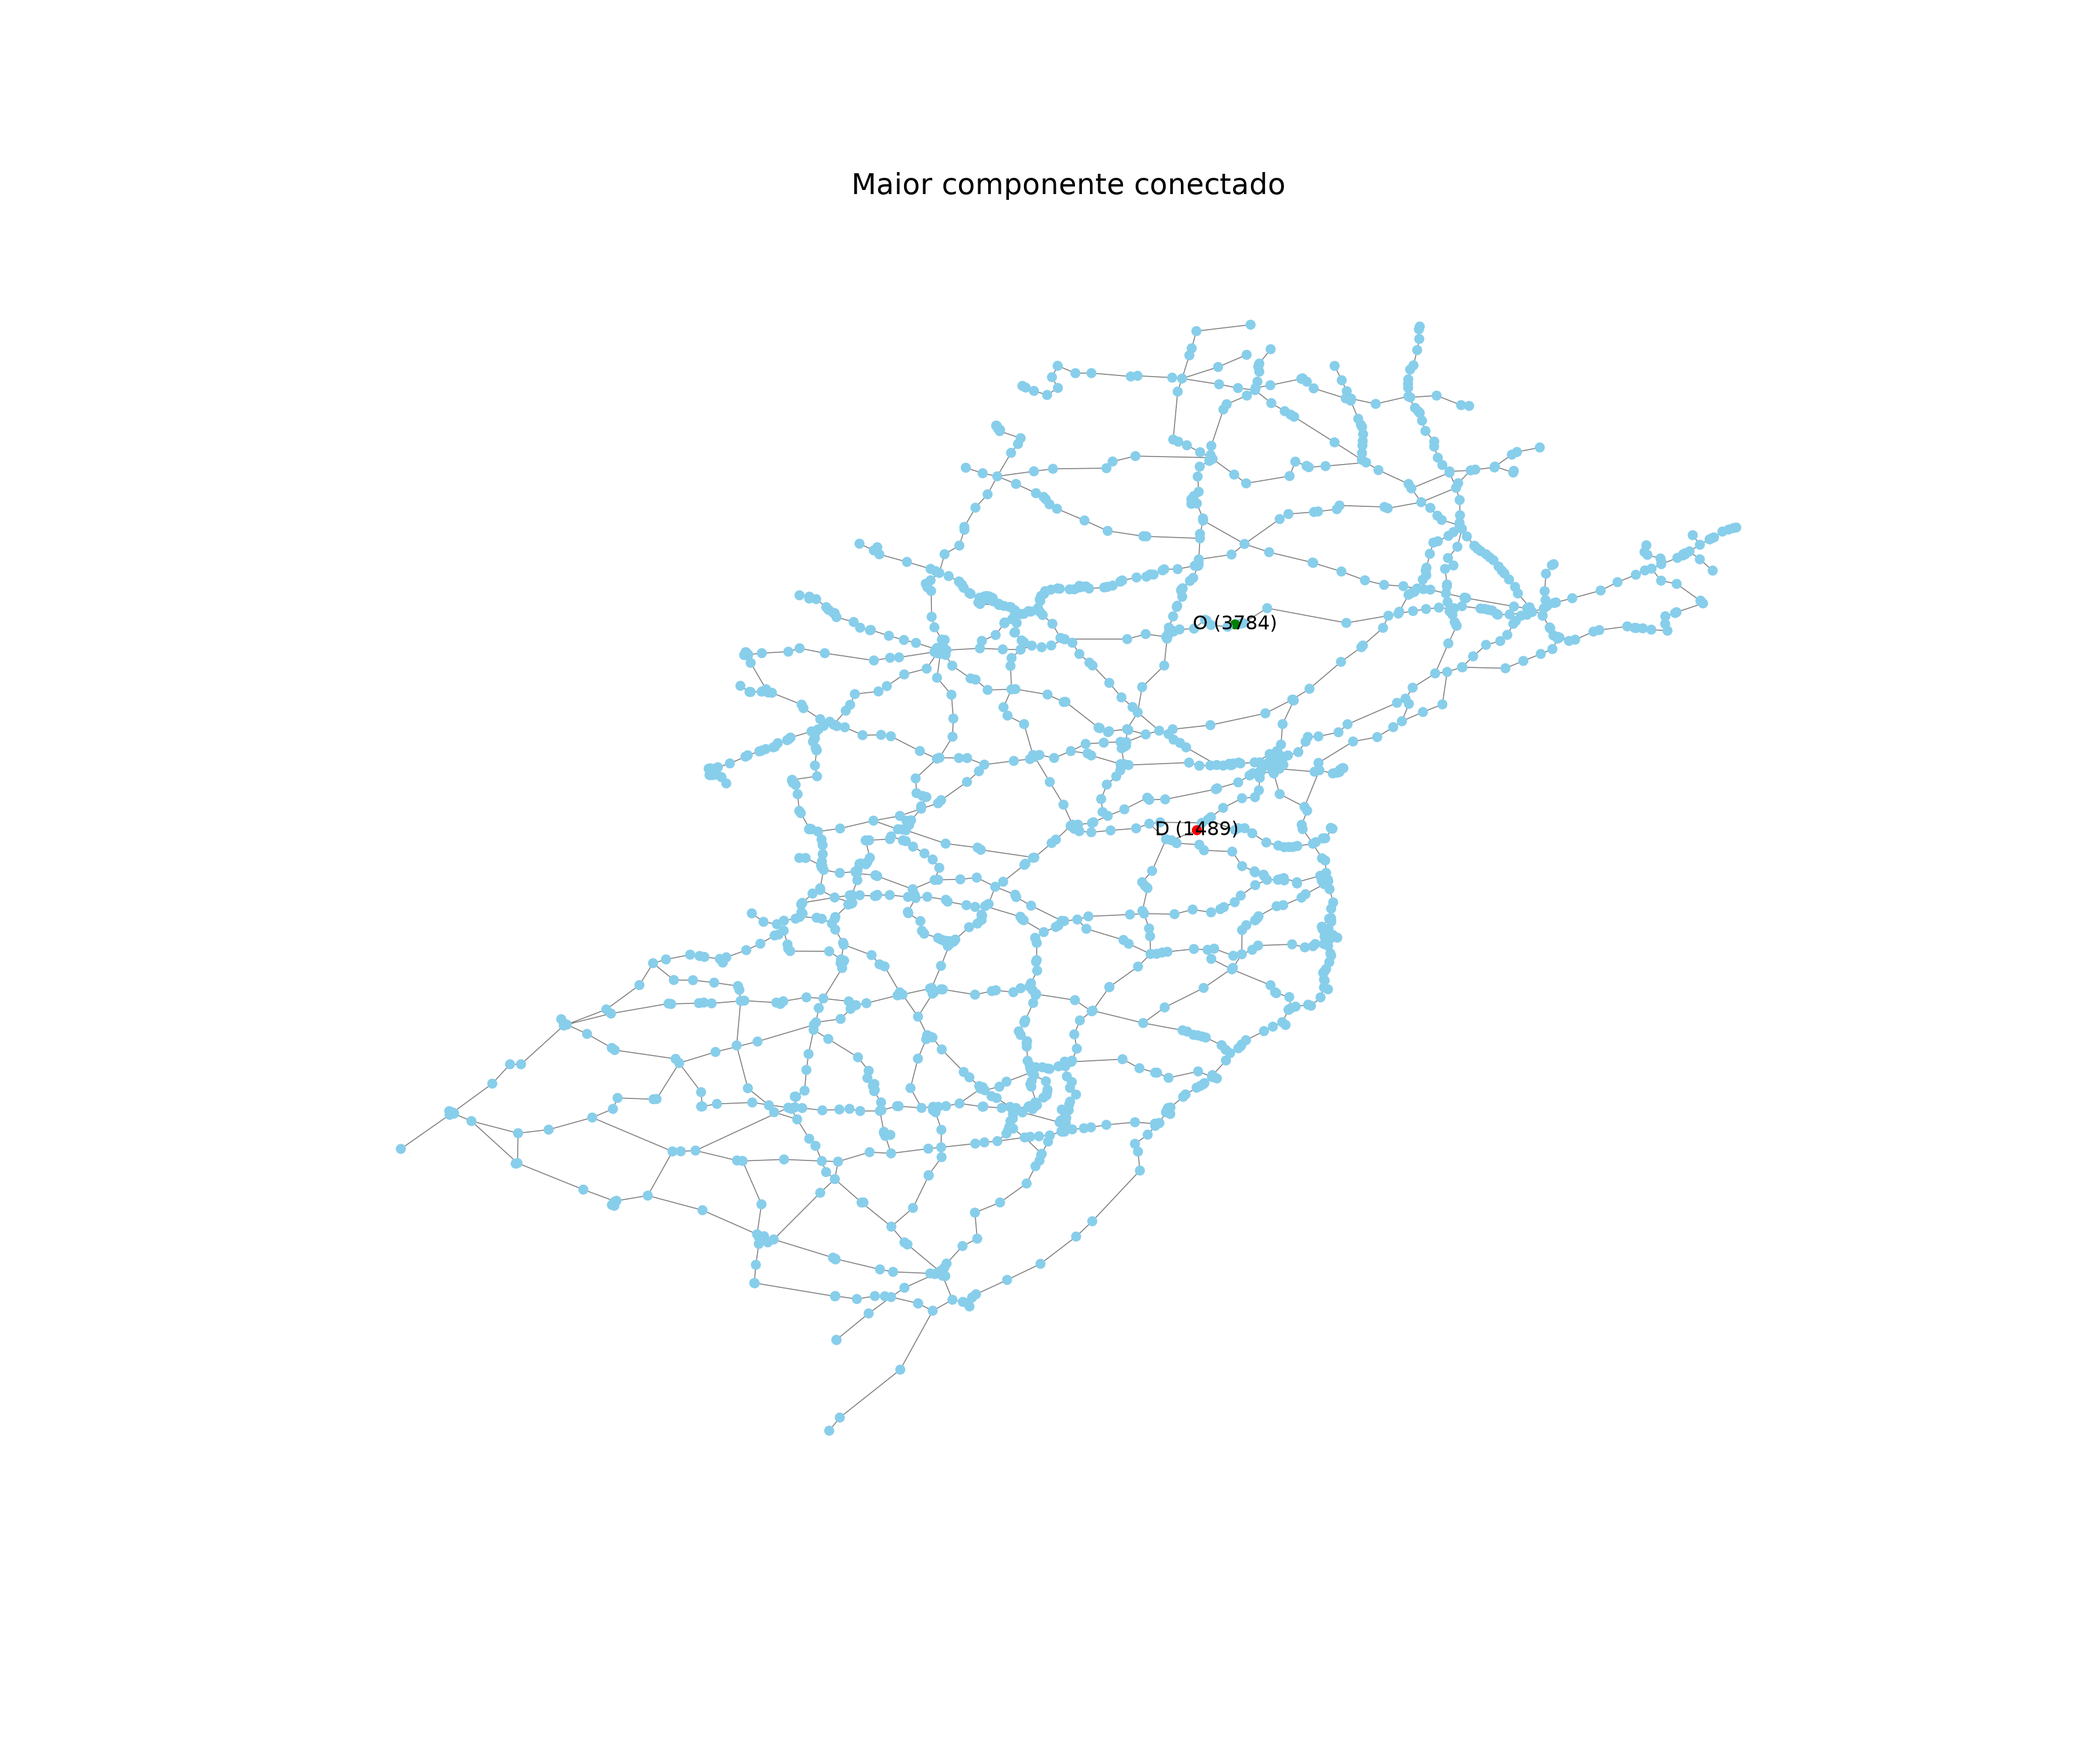
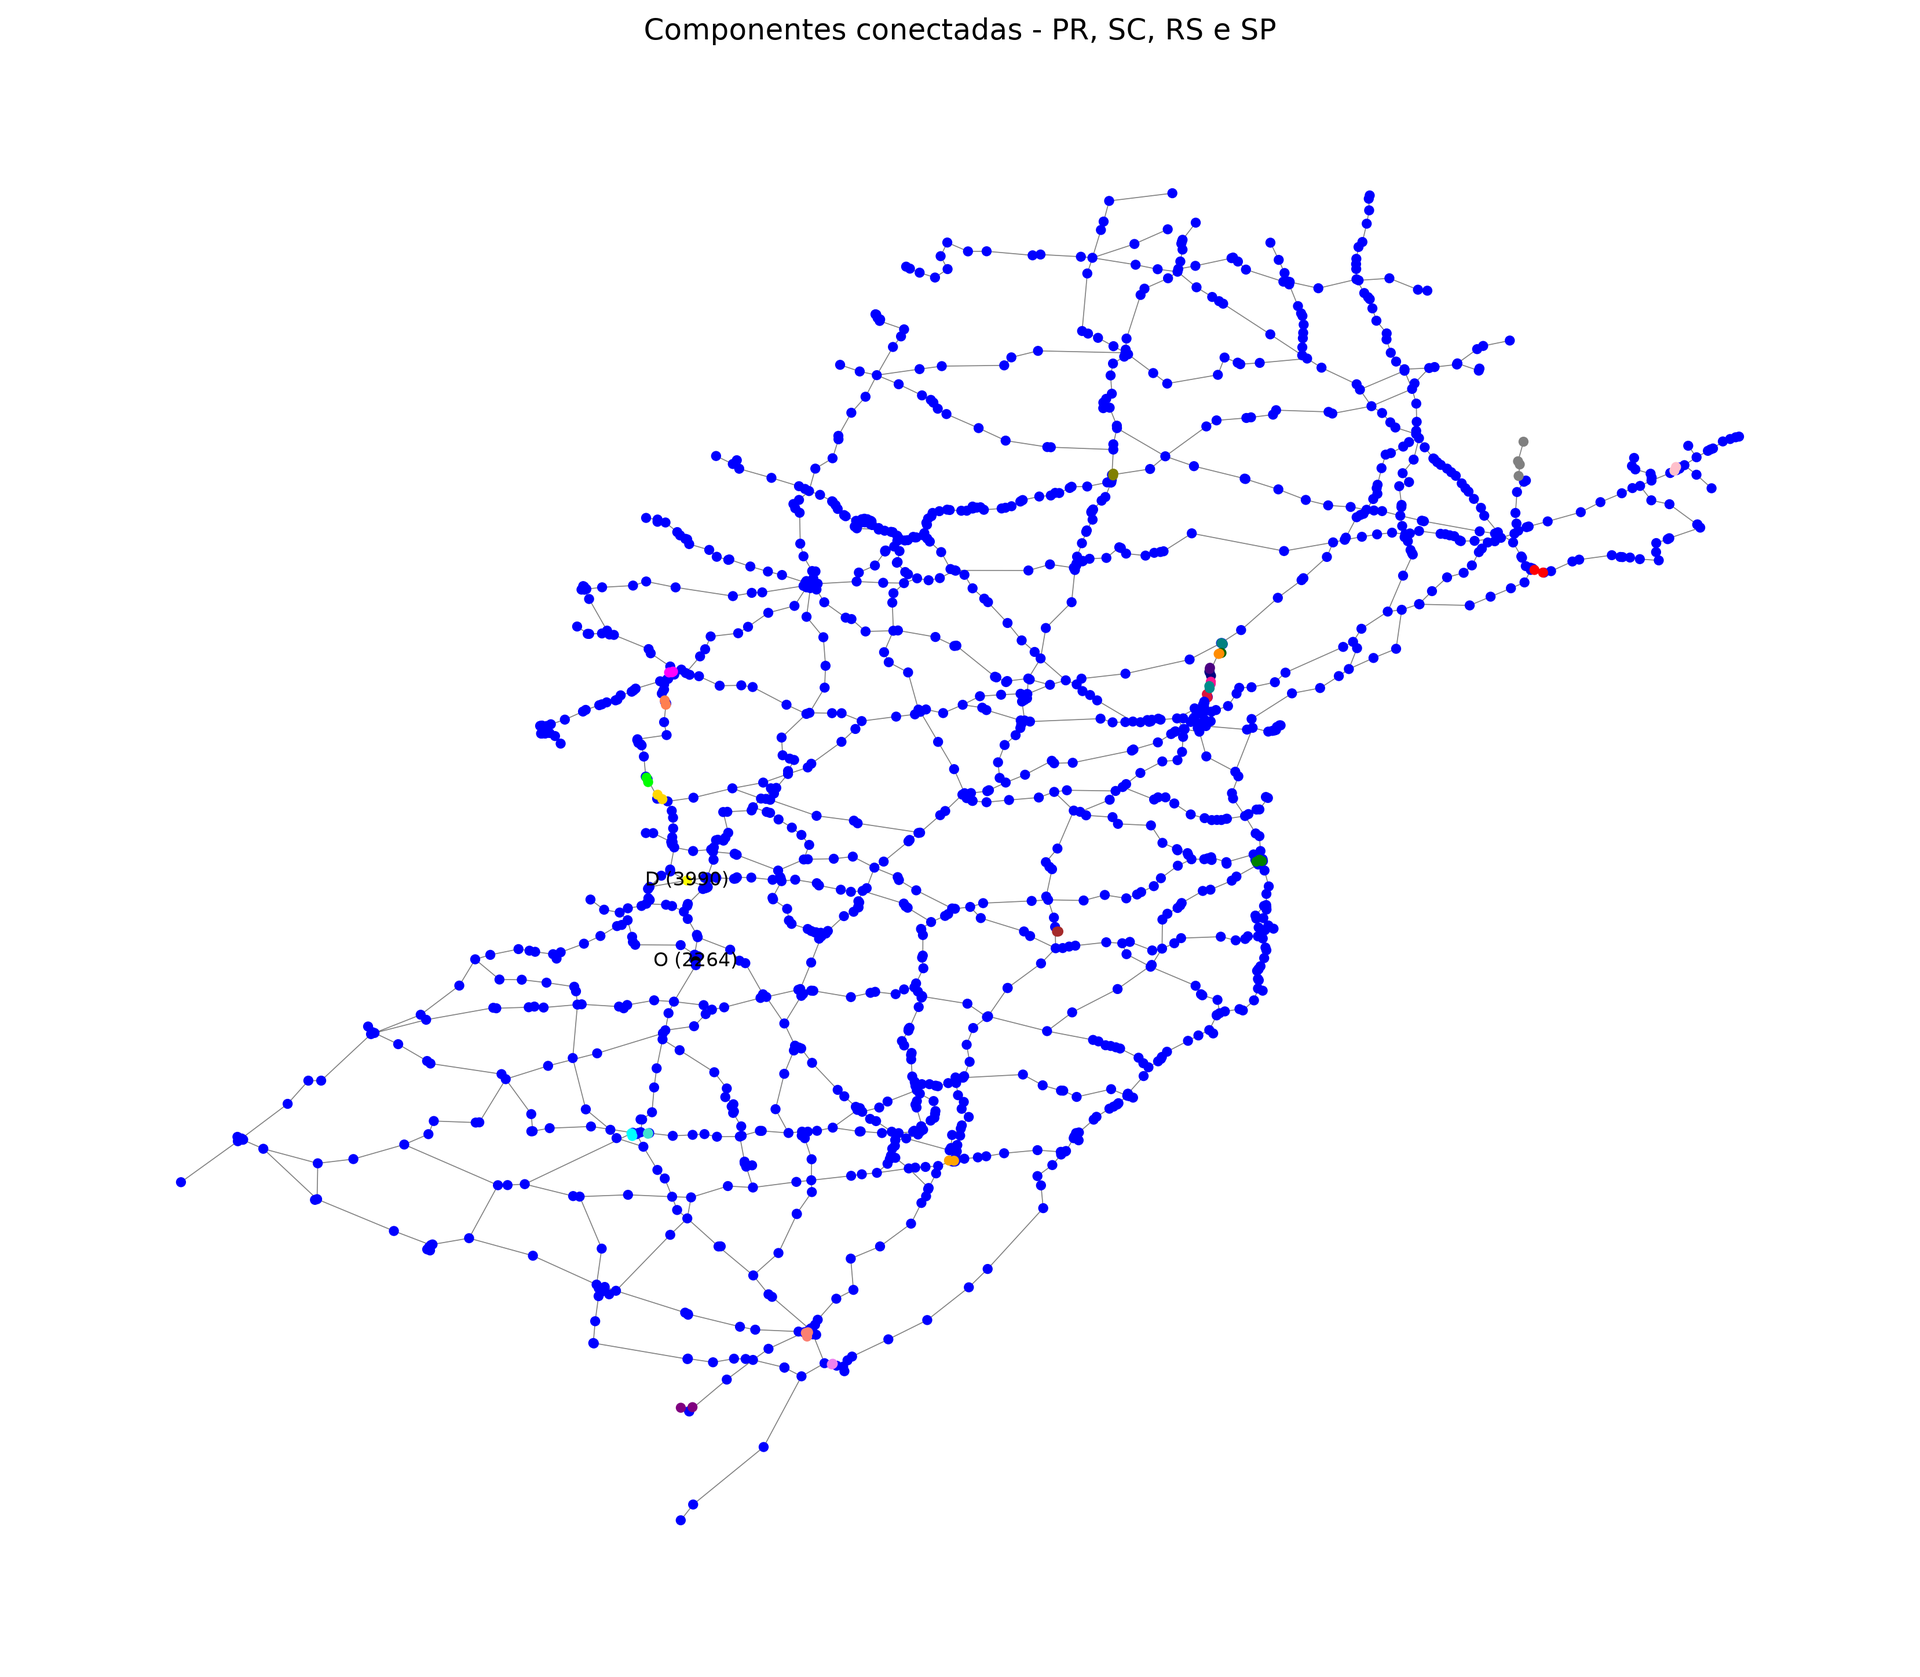
feat: adiciona visualização das componentes separadas e ajusta caminho dos arquivos de imagem

diff --git a/src/main.py b/src/main.py
@@ -4,7 +4,7 @@ from graph.loader import carregar_grafo
 from graph.filters import filtrar_nos, filtrar_adjacencia
 from graph.components import encontrar_componentes
 from graph.random_nodes import selecionar_dois_nos
-from visualization.plot_graph import plotar_componente
+from visualization.plot_graph import plotar_componente, plotar_componentes_separados
 from algorithms.ucs import ucs
 
 
@@ -13,7 +13,7 @@ def main():
     # ==========================
     # 1. Carregar o grafo
     # ==========================
-    caminho = "/home/jorge/Documentos/HUBIA/Disciplinas/Linguagens_de_programacao/Trabalho_final_lp/projeto-logistica-sul-sp/data/grafo_adjacencia_enriquecido.json"
+    caminho = "../data/grafo_adjacencia_enriquecido.json"
 
     nos, adjacencia = carregar_grafo(caminho)
 
@@ -72,30 +72,35 @@ def main():
         print(f"Estados percorridos: {' -> '.join(ufs)}")
 
     # ==========================
-    # 5. Visualização do maior componente
+    # 5. Visualização dos componentes
     # ==========================
-    origem_viz, destino_viz = selecionar_dois_nos(maior_componente)
+    origem_viz, destino_viz = selecionar_dois_nos(
+        maior_componente
+    )
+
+    print("\n=== Visualização do maior componente ===")
+    print(f"Origem: {origem_viz}")
+    print(f"Destino: {destino_viz}")
 
     plotar_componente(
         nos=nos_filtrados,
         adjacencia=adj_filtrada,
-        componente=maior_componente,
-        nome_arquivo="/home/jorge/Documentos/HUBIA/Disciplinas/Linguagens_de_programacao/Trabalho_final_lp/projeto-logistica-sul-sp/images/maior_componente.png",
+        componentes=componentes,
+        nome_arquivo="../images/maior_componente.png",
         origem=origem_viz,
         destino=destino_viz
-        nos_filtrados,
-        adj_filtrada,
-        componentes,
-        "../images/maior_componente.png",
-        origem,
-        destino
     )
+
+    # ==========================
+    # 6. Visualização das componentes menores
+    # ==========================
     plotar_componentes_separados(
         nos_filtrados,
         adj_filtrada,
         componentes,
         "../images/componentes_separados.png"
     )
+
 
     
 
